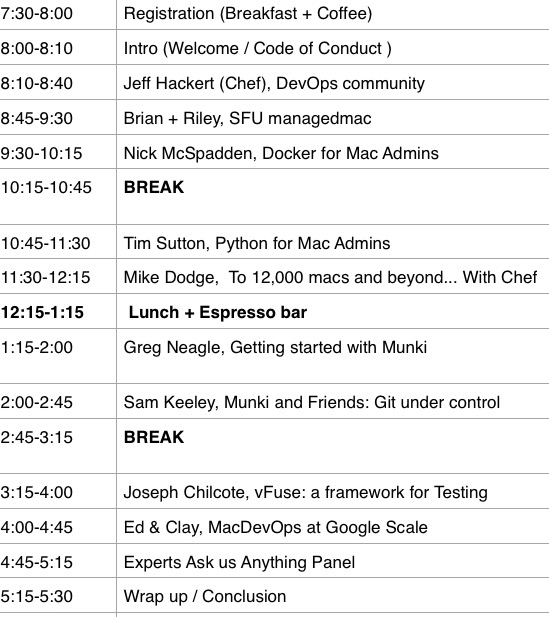
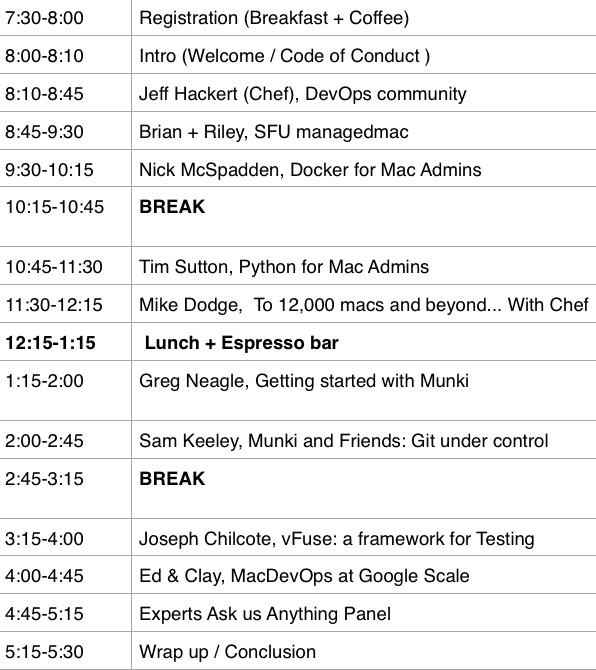
Correction Schedule 5min
Correction in the Schedule. Found a missing 5min, and changed JH timing

Changed region(s): [[0.0, 0.0, 1.0, 1.0]]

diff --git a/workshops/index.md b/workshops/index.md
@@ -14,7 +14,7 @@ Sessions and workshops schedule
 
 <p class="lead">
 
-<img height="617" width="549"  src="/assets/MacDevOpsYVR2015-Schedule.jpg">
+<img height="670" width="596"  src="/assets/MacDevOpsYVR2015-Schedule.jpg">
 </p>
 
 <p class="lead">
